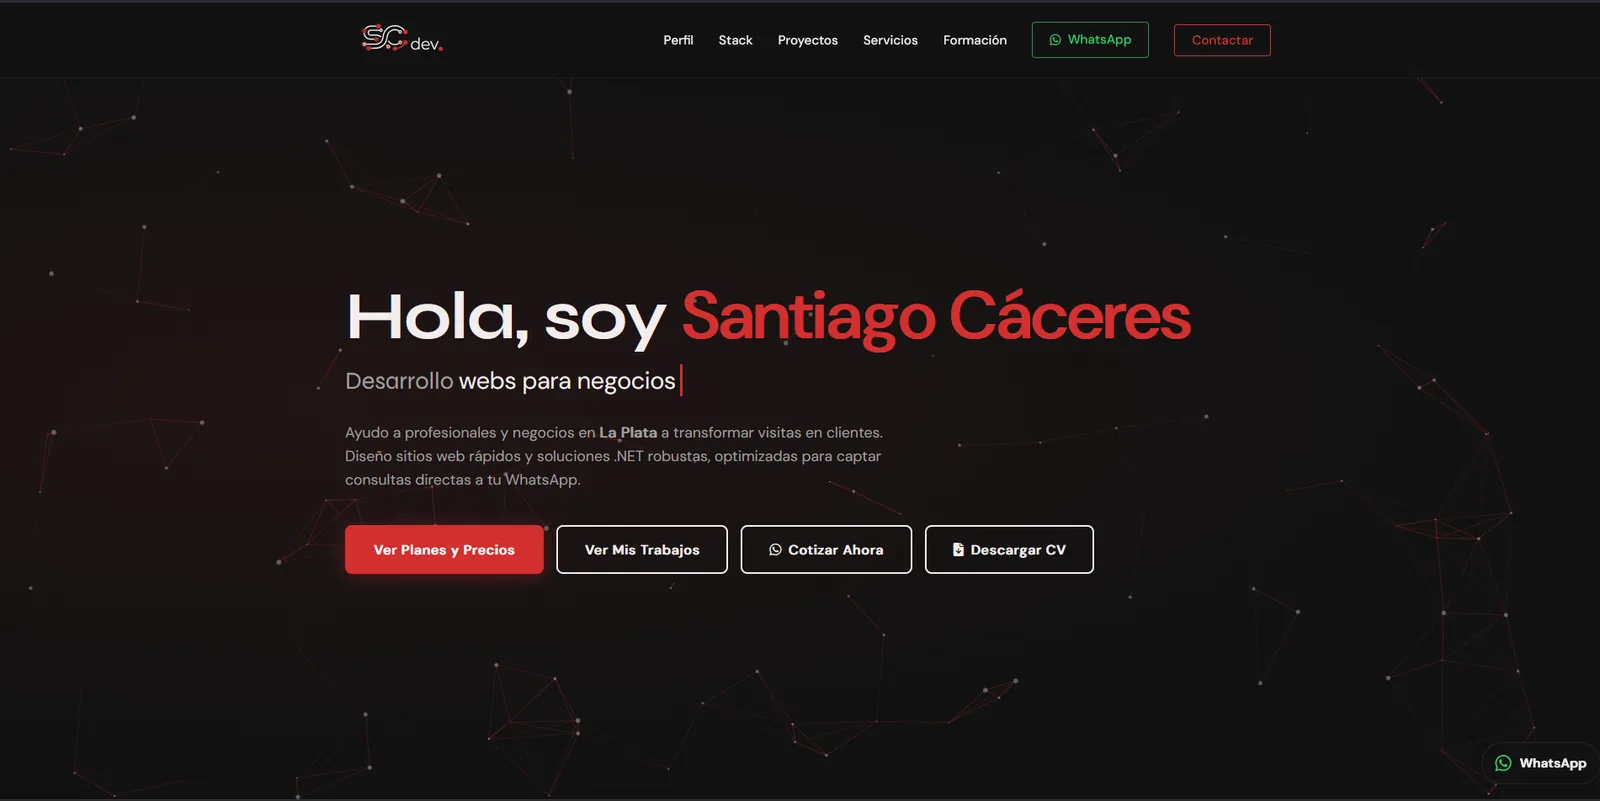
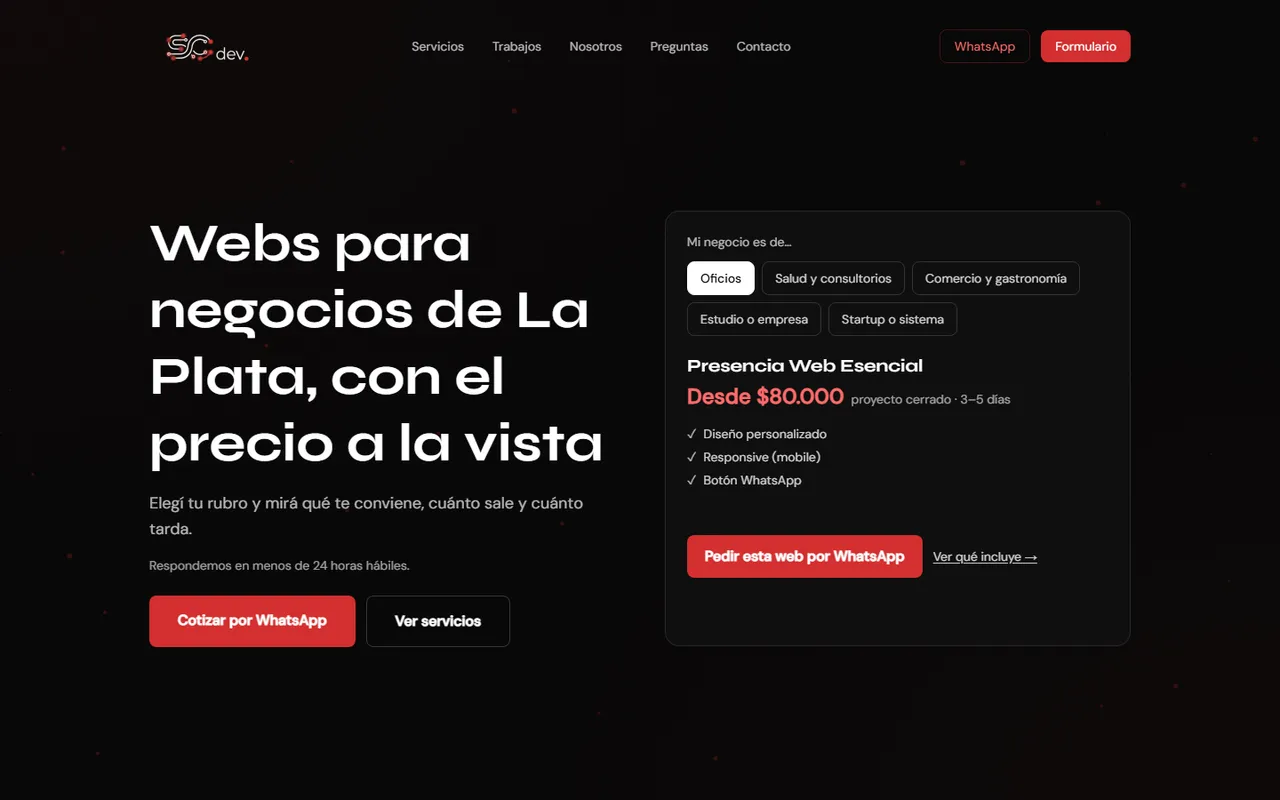
docs(clientes): pendientes de la Parte B, captura del sitio rediseñado y capturas de Trabajos

diff --git a/docs/pendientes.md b/docs/pendientes.md
@@ -21,6 +21,16 @@ TODO(santi): confirmar o corregir cada lista.
 
 TODO(santi): pasar el logo real (idealmente con fondo transparente y legible sobre fondo oscuro), generar el WebP liviano y volver a poner `logo` y `logoSize` en la entrada `padejimas`.
 
+## Trabajos (Parte B)
+
+Datos en `src/data/portfolio.ts` (carrusel) y `src/data/clientes.ts` (franja "Confían en SCdev"). Los demos nunca cuentan como clientes: la franja solo toma `tipo === 'cliente'` y `visible !== false`.
+
+- TODO(santi): pedir permiso a Juan Sequeira para mostrar SGI (`deca-sgi`, `visible: false`). Cuando se publique: nombre "SGI · Sistema de gestión integral", chip "Demo con datos de ejemplo", sin logo ni nombre de Deca salvo que lo autorices.
+- TODO(santi): confirmar con Juan Manuel Negri que podemos mostrar Diputados Bonaerenses (`diputados-bonaerenses`, `visible: false` en los dos archivos). La captura tiene que ser recortada del encabezado y la grilla de titulares, sin la nota principal con fotos de rostros.
+- Capturas que faltan (las cards muestran el nombre hasta que estén): `tabano`, `deca-sgi`, `florencia-inveninato`, `diputados-bonaerenses`. Dejarlas en `docs/clientes-nuevos/` (`tabano.png`, `deca.png`, `flor.png`, `diputados.png`), pasarlas por `scripts/optimizar-imagenes.mjs` a WebP y poner la ruta en `imagen`. Se pueden mostrar en 16:10 (la card recorta).
+- Tábano: sitio verificado online. Descripción tal como la definiste (sin nombres de personas ni tarifa).
+- Grafía de "Consultorio Dr. Padejimas": TODO(santi) confirmar la grafía correcta (el archivo del logo se llama `DrPadegimas`). Hasta entonces queda como está.
+
 ## Perfil de Empresa de Google (`index.html`)
 
 TODO(santi): URL del Perfil de Empresa ("SCdev|Desarrollo Web Profesional") para sumarla a `sameAs` del `LocalBusiness`.
